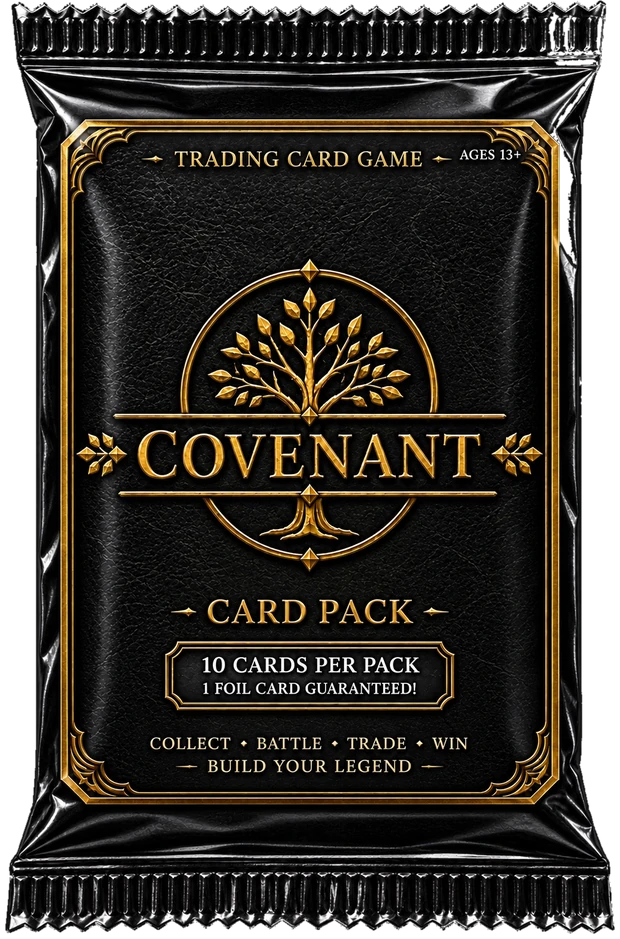
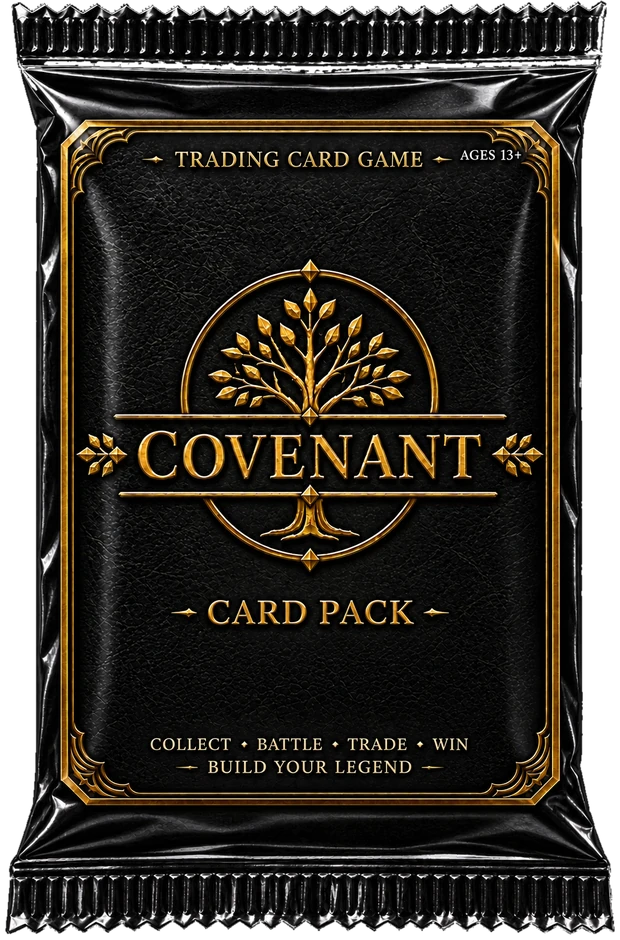
Give all three packs updated art with a proper blank band for their name
Creation, the Flood and the Promise now all use dedicated photography cut
from the new studio shots — each one leaves its own blank leather band
between "Card Pack" and the "Collect · Battle · Trade · Win" line for the
game's own overlay to put the pack's actual name in, rather than the
generic "Card Pack" being the only label a pack ever carried.

Recalibrated the plate band to that blank space (67%-77% of the height,
measured off the new art, up from the old shared shot's differently
positioned band) and re-enabled the name overlay for every pack — the
Promise had it, Creation and the Flood didn't, since their previous
photography had no blank band of its own to put a name in without
darkening it enough to hide the old baked-in label, which read as a grey
smudge on a light colourway.

That darkening is no longer needed at all: the band is genuinely blank
now, so the glow drops its dark pooling layer and keeps only the light
per-theme colour wash, and the name itself picks up a drop-shadow instead
(the same trick the turn banner's own gold-leaf plate already uses) for
the lift against the leather that the pooling shadow used to provide.

Claude-Session: https://claude.ai/code/session_01EMHWkX4LeG5VhY9fo6QN48

diff --git a/src/art/PackWrapper.tsx b/src/art/PackWrapper.tsx
@@ -6,20 +6,20 @@ import './packWrapper.css'
 /**
  * A booster pack wrapper.
  *
- * Genesis ships three packs. Two now carry their own dedicated foil stock —
- * Creation in a cream/ivory colourway, the Flood in black — with the
- * Promise still on the original shared brown leather shot as the default
- * for anything not listed in `PACK_PHOTO`. All three photos come from the
- * same shoot (identical medallion, name band and stat panel placement,
- * just a different colourway), which is what lets one shared name overlay
- * and glow still line up correctly on every one of them.
+ * Genesis ships three packs, each with its own dedicated foil stock —
+ * Creation in cream/ivory, the Flood in black, the Promise in brown
+ * leather. All three photos come from the same shoot (identical medallion
+ * and border placement, just a different colourway) and all three leave
+ * the same band blank beneath "Card Pack" for a pack's own name — which is
+ * what lets one shared overlay line up correctly on every one of them. A
+ * pack not listed in `PACK_PHOTO` falls back to the original shared shot,
+ * for whatever the set adds next before it has dedicated art of its own.
  */
 
-/** Per-pack photography. A pack not listed here falls back to the shared
- *  shot every pack used before dedicated art existed for it. */
 const PACK_PHOTO: Record<string, string> = {
   creation: 'art/packs/wrapper-creation.webp',
   'the-flood': 'art/packs/wrapper-flood.webp',
+  'the-promise': 'art/packs/wrapper-promise.webp',
 }
 
 /** A faint colour under the nameplate, tied to the pack's exclusive type. */
@@ -38,36 +38,22 @@ interface Props {
 }
 
 export function PackWrapper({ pack, className }: Props) {
-  const dedicatedPhoto = PACK_PHOTO[pack.id]
-
   return (
     <div className={cx('cov-pack', className)}>
       <img
-        src={asset(dedicatedPhoto ?? 'art/packs/wrapper.webp')}
+        src={asset(PACK_PHOTO[pack.id] ?? 'art/packs/wrapper.webp')}
         alt={`${pack.name} booster pack`}
         className="cov-pack__photo"
         loading="lazy"
         decoding="async"
       />
 
-      {/*
-        The plate's dark pooling glow was tuned to sit on the shared shot's
-        brown leather, where darkening it further just deepens an already
-        dark colour. Creation's own dedicated photo is cream — the same
-        darkening reads as a flat grey smudge there, not a shadow, since
-        there's no way to darken a light background enough to cover the
-        photo's own baked-in "Card Pack" label without the darkening itself
-        becoming the visible thing. Dedicated art skips the plate rather
-        than fighting that: it already carries its own finished nameplate.
-      */}
-      {!dedicatedPhoto && (
-        <div className="cov-pack__plate">
-          <div className="cov-pack__glow" style={{ '--pack-glow': `${TYPE_GLOW[pack.theme]}33` } as React.CSSProperties} />
-          <span className="cov-pack__gem" />
-          <span className="cov-pack__name gold-leaf">{pack.name.toUpperCase()}</span>
-          <span className="cov-pack__gem" />
-        </div>
-      )}
+      <div className="cov-pack__plate">
+        <div className="cov-pack__glow" style={{ '--pack-glow': `${TYPE_GLOW[pack.theme]}33` } as React.CSSProperties} />
+        <span className="cov-pack__gem" />
+        <span className="cov-pack__name gold-leaf">{pack.name.toUpperCase()}</span>
+        <span className="cov-pack__gem" />
+      </div>
     </div>
   )
 }

diff --git a/src/art/packWrapper.css b/src/art/packWrapper.css
@@ -1,13 +1,12 @@
 /*
  * The booster pack wrapper.
  *
- * One photograph, shared by every Genesis pack, rather than three procedurally
- * drawn variants. What told the packs apart on a real shelf was never the
- * wrapper stock — it was the name struck across the middle of it. The name
- * here lands in the exact band the photograph already left plain for it,
- * measured off the source image: 63.2% to 68.4% of the height clears the tree
- * medallion's finial above it and the stat panel's border below it, on every
- * pack, at every size.
+ * Each pack has its own dedicated photograph now, but all three come from
+ * the same shoot and leave the same band blank for a name to land in. What
+ * tells the packs apart is that name, not the wrapper stock underneath it.
+ * The band is measured off the source art: 67% to 77% of the height clears
+ * "Card Pack" above it and the "Collect · Battle · Trade · Win" line below
+ * it, on every pack, at every size.
  *
  * The photo's studio backdrop is cut out (see scripts/cutout-pack.py), so the
  * wrapper is a real silhouette rather than a rectangle — there is nothing
@@ -43,29 +42,28 @@
   z-index: 0;
   left: 8%;
   right: 8%;
-  top: 63.2%;
-  height: 5.2%;
+  top: 67%;
+  height: 10%;
   display: flex;
   align-items: center;
   justify-content: center;
   gap: 1.8cqw;
 }
 
-/* A faint pool of colour under the name, tinted per pack theme — the same
+/* A faint wash of colour under the name, tinted per pack theme — the same
    role a coloured foil stamp would play on a real wrapper shared across a
-   set. It sits behind the gems and the name, not tinting the photo itself. */
+   set. It sits behind the gems and the name, not tinting the photo itself.
+   Light on purpose: the band it sits in is genuinely blank leather now (no
+   baked label to cover the way an earlier shared shot had), so this only
+   ever needs to add a little colour, never to darken the band enough to
+   hide something underneath it — that darkening was what read as a flat
+   grey smudge on a light colourway. Legibility for the name itself comes
+   from its own drop-shadow below, not from pooling shadow behind it. */
 .cov-pack__glow {
   position: absolute;
   z-index: -1;
   inset: 0;
-  background:
-    radial-gradient(ellipse 58% 130% at 50% 50%, var(--pack-glow, transparent) 0%, transparent 75%),
-    radial-gradient(
-      ellipse 60% 100% at 50% 50%,
-      rgba(10, 7, 4, 0.88) 0%,
-      rgba(10, 7, 4, 0.58) 58%,
-      transparent 100%
-    );
+  background: radial-gradient(ellipse 58% 130% at 50% 50%, var(--pack-glow, transparent) 0%, transparent 75%);
 }
 
 .cov-pack__name {
@@ -74,6 +72,12 @@
   font-size: 7.6cqw;
   letter-spacing: 0.1em;
   white-space: nowrap;
+  /* The baked "Card Pack" above it is struck with a real bevel and shadow;
+     the gold-leaf clip this shares with it is flat by comparison without
+     some lift of its own. A drop-shadow (not a text-shadow, which can't
+     cross a background-clip) is what the same trick elsewhere in the game
+     — the turn banner's own gold-leaf plate — already uses for this. */
+  filter: drop-shadow(0 1px 2px rgba(0, 0, 0, 0.55));
 }
 
 .cov-pack__gem {
